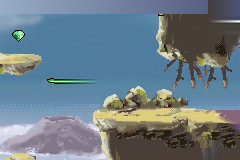
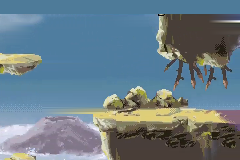
Align cliff collision edges to captured ledges and remove recorded actor remnants

diff --git a/src/game.c b/src/game.c
@@ -3,7 +3,7 @@
 /* Approximate first viewport from the supplied recording, not a recovered ROM map. */
 const Platform platforms[PLATFORM_COUNT]={{81,88,70,8},{186,40,54,8}};
 static const Platform bridge_platforms[3]={{33,BRIDGE_SURFACE_Y,48,8},{81,BRIDGE_SURFACE_Y,125,8},{206,BRIDGE_SURFACE_Y,34,8}};
-static const Platform cliff_platforms[2]={{0,60,89,8},{140,115,100,8}};
+static const Platform cliff_platforms[2]={{0,54,43,8},{96,115,144,8}};
 static const int ground[][2]={{0,151},{24,153},{40,158},{56,158},{72,153},{84,153},
  {100,154},{120,153},{140,145},{156,146},{176,153},{192,157},{216,157},{239,153}};
 int game_floor(int x){
@@ -32,7 +32,7 @@ static void transition_area(Game *g,int area){
  camera(g);
 }
 static void respawn_area(Game *g){
- g->x=(g->area==2?20:g->area?60:40)*FP;g->y=(g->area==2?20:g->area?BRIDGE_SURFACE_Y-PLAYER_H:118)*FP;
+ g->x=(g->area==2?20:g->area?60:40)*FP;g->y=(g->area==2?14:g->area?BRIDGE_SURFACE_Y-PLAYER_H:118)*FP;
  g->vx=0;g->vy=0;g->grounded=1;g->climbing=0;g->sign_open=0;
  g->camera=0;camera(g);
 }
@@ -98,7 +98,7 @@ void game_step(Game *g,unsigned input){
  if(!g->area&&(pressed&DOWN)&&center>=158&&center<=190&&g->grounded)g->sign_open=1;
  if(!g->area&&(input&RIGHT)&&g->x>=225*FP&&g->grounded&&g->y==0)transition_area(g,1);
  else if(g->area==1&&(input&LEFT)&&g->x<=32*FP&&g->grounded)transition_area(g,0);
- else if(g->area==1&&(input&RIGHT)&&g->x>=225*FP&&g->grounded){g->area=2;g->progress.area=2;g->x=20*FP;g->y=20*FP;g->vy=0;camera(g);}
+ else if(g->area==1&&(input&RIGHT)&&g->x>=225*FP&&g->grounded){g->area=2;g->progress.area=2;g->x=20*FP;g->y=14*FP;g->vy=0;camera(g);}
  else if(g->area==2&&(input&LEFT)&&g->x<=8*FP&&g->grounded){g->area=1;g->progress.area=1;g->x=224*FP;g->y=60*FP;g->vy=0;camera(g);}
  else if(g->y>210*FP){g->falls++;respawn_area(g);}
 }

diff --git a/tools/convert_cliff.py b/tools/convert_cliff.py
@@ -7,14 +7,16 @@ from convert_room import extract
 p=argparse.ArgumentParser();p.add_argument('video');a=p.parse_args();out=Path(__file__).resolve().parents[1]/'assets'
 im=extract(a.video,127)
 # Remove recording overlays and moving actor/bat; interpolation is an approximation.
-for left,top,right,bottom in [(0,0,240,14),(208,0,240,35),(55,45,99,109),(110,17,147,36)]:
+for left,top,right,bottom in [(0,0,240,14),(208,0,240,35),(43,55,101,114),(110,17,147,36),(7,22,29,45)]:
  for y in range(top,bottom):
   lc=im.getpixel((max(0,left-1),max(14,y)));rc=im.getpixel((min(239,right),max(14,y)))
   for x in range(left,right):
    w=(x-left)/max(1,right-left);im.putpixel((x,y),tuple(round(lc[k]*(1-w)+rc[k]*w) for k in range(3)))
+for y in range(14):
+ for x in range(240):im.putpixel((x,y),(78,123,153))
 header=(out/'room.bin').read_bytes()[:512];colors=[]
 for v in np.frombuffer(header,dtype='<u2'):colors.extend(int(((v>>s)&31)*255//31) for s in (0,5,10))
 pal=Image.new('P',(1,1));pal.putpalette(colors)
 arr=np.asarray(im.quantize(palette=pal,dither=Image.Dither.NONE))
 (out/'cliff.bin').write_bytes(header+arr.tobytes());im.save(out/'cliff_reference.png')
-(out/'cliff_manifest.json').write_text(json.dumps({'video_seconds':127,'platforms':[[0,60,89],[140,115,100]],'limits':['Occluded pixels interpolated','Collision geometry approximated from visible ledges','Discrete transitions use provisional entry points','Later corridor not yet integrated']},indent=2))
+(out/'cliff_manifest.json').write_text(json.dumps({'video_seconds':127,'platforms':[[0,54,43],[96,115,144]],'limits':['Occluded pixels interpolated','Collision geometry approximated from visible ledges','Discrete transitions use provisional entry points','Later corridor not yet integrated']},indent=2))

diff --git a/tests/test_game.c b/tests/test_game.c
@@ -53,9 +53,9 @@ int main(void){
   assert(aligned_sprite_x(center,48,SIA_ANCHOR_X,1)+(47-SIA_ANCHOR_X)==center);
  }
  game_reset(&g);g.area=1;g.progress.area=1;g.x=224*FP;g.y=60*FP;g.grounded=1;
- game_step(&g,RIGHT);assert(g.area==2&&g.x==20*FP&&g.y==20*FP);
- step(&g,RIGHT,35);step(&g,JUMP|RIGHT,70);step(&g,0,60);
+ game_step(&g,RIGHT);assert(g.area==2&&g.x==20*FP&&g.y==14*FP);
+ step(&g,RIGHT,5);step(&g,JUMP|RIGHT,90);step(&g,0,60);
  assert(g.area==2&&g.grounded&&g.y==75*FP&&g.falls==0);
- g.x=20*FP;g.y=20*FP;g.vy=0;g.grounded=1;step(&g,LEFT,10);assert(g.area==1);
+ g.x=20*FP;g.y=14*FP;g.vy=0;g.grounded=1;step(&g,LEFT,10);assert(g.area==1);
  puts("PASS v0.6: terrain, jump, ladder, platforms/camera, registered area position/velocity continuity, flip anchors, bridge surface, two gems, round-trip persistence, fall respawn, reset, sign and attack");
 }

diff --git a/tools/frontend_check.c b/tools/frontend_check.c
@@ -151,7 +151,7 @@ int main(int argc,char **argv){
  for(int i=0;i<180&&value(c,17)==1;i++)run(c,1);
  c->setKeys(c,0);run(c,4);assert(value(c,17)==2);
  capture(c,"build/cliff_entry.ppm");
- c->setKeys(c,16);run(c,35);c->setKeys(c,17);run(c,70);c->setKeys(c,0);run(c,60);
+ c->setKeys(c,16);run(c,5);c->setKeys(c,17);run(c,90);c->setKeys(c,0);run(c,60);
  assert(value(c,17)==2&&value(c,14)==1&&(int)value(c,9)==75*256);
  capture(c,"build/cliff_landing.ppm");
  unsigned old_falls=value(c,18);c->setKeys(c,32);
